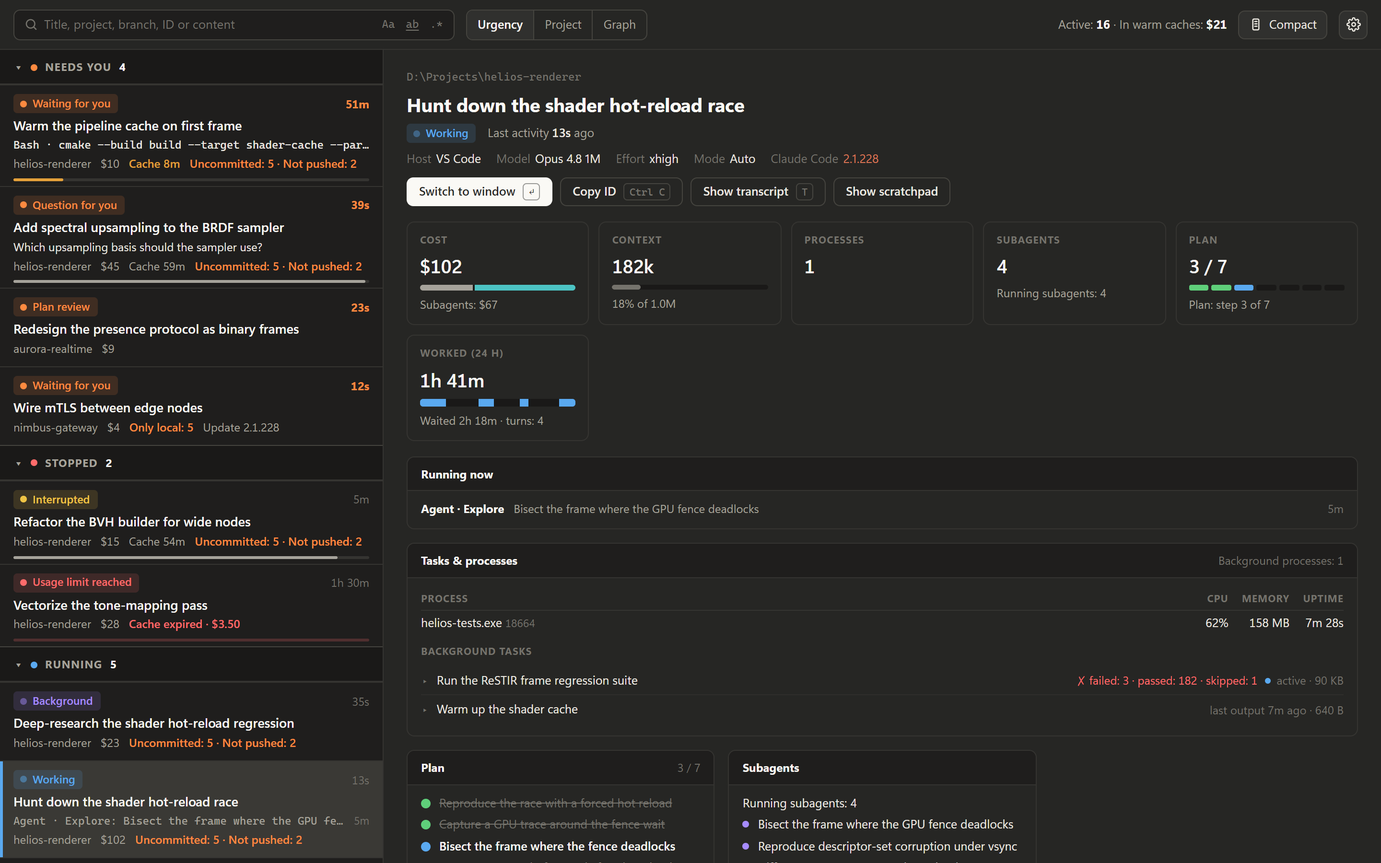
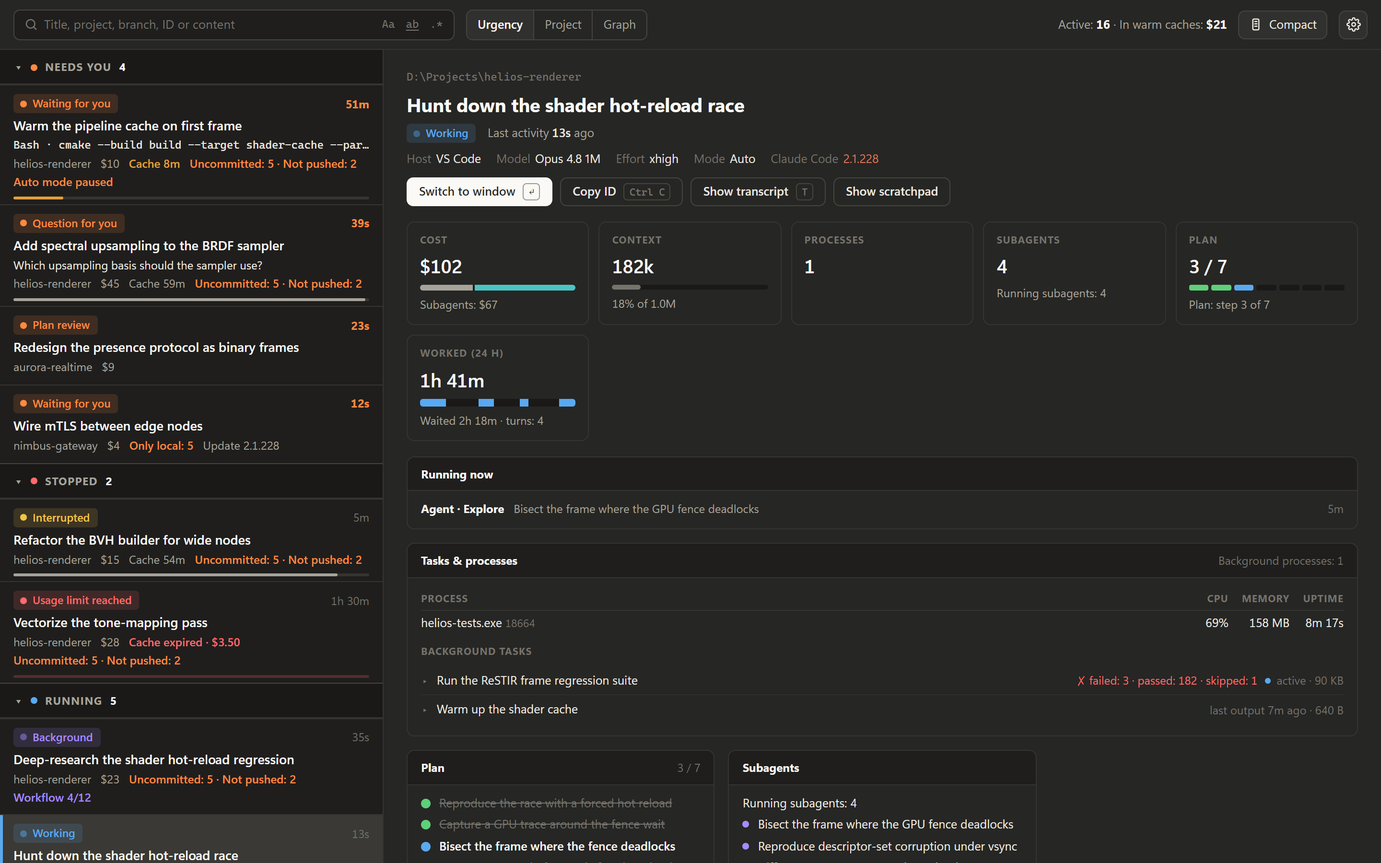
fix: wrap a list figure that does not fit onto the next line
Leaving a figure out for want of room hid facts on a narrow list. A
figure that does not fit now moves whole onto a second line, and the
project name is no longer capped. Screenshots regenerated.

Changed region(s): [[0.0, 0.1867, 0.2812, 1.0]]

diff --git a/agent_monitor_for_claude/ui/index.css b/agent_monitor_for_claude/ui/index.css
@@ -812,16 +812,14 @@ body.splitter-dragging {
         text-overflow: ellipsis;
     }
 
-    /* One line: a figure that does not fit wraps onto a second line that is
-       clipped away, so it goes whole instead of being cut mid-word. */
+    /* A figure that does not fit moves whole onto the next line, never cut
+       mid-word nor left out. */
     .item-meta {
         grid-area: meta;
         display: flex;
         flex-wrap: wrap;
         align-items: center;
-        gap: 0 10px;
-        height: 1.4em;
-        overflow: hidden;
+        gap: 2px 10px;
         min-width: 0;
         color: var(--fg-dim);
         font-size: 12px;
@@ -928,10 +926,8 @@ body.splitter-dragging {
 
 .meta-project {
     flex: 0 1 auto;
-    /* Squeezed by the figures beside it, but never to nothing, and never so
-       wide that it pushes them off the line. */
+    /* Squeezed only when it alone is wider than the line. */
     min-width: 4em;
-    max-width: 40%;
     white-space: nowrap;
     overflow: hidden;
     text-overflow: ellipsis;

diff --git a/.claude/CLAUDE.md b/.claude/CLAUDE.md
@@ -84,7 +84,7 @@ Prioritize functionality, performance and maintainability - whatever stands in t
 - **What a session runs, waits on and last said** (display fields, exempted by name in `tests/test_transcript_privacy.py`'s `_DISPLAY_TEXT_FIELDS`). The tail keeps the newest unanswered `tool_use` as `current_tool` (`transcript._tool_call`: a command, a path, an `AskUserQuestion`'s questions with their option labels, an `ExitPlanMode` plan, a subagent's type and description, else the first string input; `_TOOL_TEXT_MAX_CHARS` 400, a plan `_PLAN_TEXT_MAX_CHARS` 4000) with its timestamp, and the text blocks of the newest reply that has any as `last_reply` (`_REPLY_MAX_CHARS` 600). `logic.currentToolOf` drops the call for a dead process, a stopped turn and a reopen (the call belongs to the process that made it); `logic.activityOf` picks the list's one line - the call or question for `awaiting_permission`, the call with a ticking `.tick` duration for `working`/`processing`, else the reply's first line for a finished turn. A ticking element carries `data-age`/`data-age-at` and `tickAges` advances it like `.age`. The cuts are for the per-poll snapshot only: the details show both **whole** for the selected session - `detail.js` `requestSessionTexts` asks the `get_session_texts` bridge (`snapshot.session_texts` -> `transcript.full_texts`, the same tail parse with `_parse(full=True)`, which threads `_clip_unless` through `_tool_call`/`_questions`/`_reply_text`) whenever the cut text changes (`textsSignature`), and `wholeTexts` uses the answer only while it still belongs to that cut text. Never ship the whole texts on the snapshot: it goes out for every session on every poll.
 - **Worked and waiting time** (`transcript._note_user_entry`/`_note_assistant_entry`, full scan, main conversation only). A prompt (not a tool result, not `isMeta`) opens a turn, the reply with `end_turn`, an `isApiErrorMessage` reply, the interrupt marker or a local command's output (`_is_local_command_output` - otherwise the command's `<command-name>` invocation stayed an open turn until the next real reply) closes it (`_close_turn`); a prompt while one is open continues it. Closed intervals ship as `work_intervals` (`[seconds ago it started, seconds ago it ended]`, last day only), the open one as `turn_open_seconds`. `logic.workSummary` counts the open turn up to now while `working`/`processing` and up to the newest entry while `awaiting_permission`, never from before `process_age_seconds` (a turn an earlier process left open, continued by a prompt after a reopen, would otherwise count the whole gap; the *closed* interval such a turn leaves behind still spans it - the transcript does not say where one process ended), merges overlaps, and reports work, wait (the rest of the span; an ended session's span stops at its last turn) and the segments the timeline draws (`data-left`/`data-share`, sized by `applyShares`). The same scan logs `messages`: a `SendMessage` call's `to`/`recipient`, and a prompt whose `origin.kind` is `peer` with its `from`, `name` and `handback` - never the body. A background subagent's **task notification** (a prompt or queued attachment whose `origin.kind` is `task-notification`) is logged as that agent's hand-back (`_note_task_notification`): only `<task-id>` (an agent id, `a` + hex - a shell task's id is skipped) and `<status>` (`completed`/`stopped`/`killed`/`failed`, shipped as the message's `outcome`) from the text before `<summary>`, so the summary and the `<result>` after it stay unread even where they quote a tag (guarded in `tests/test_transcript_privacy.py`); measured, about as many agents report this way as through a `peer` hand-back.
 - **The connection graph** is the third grouping (`state.group === 'graph'`, `body.group-graph` widens the list pane). `subagents.count_subagents` lists **every** agent file of the session, newest first, with no cap (an analysis tool shows all of it; the counts keep their own `subagent_recent_seconds` window), and the snapshot ships every message the scan keeps (`_MAX_MESSAGES`, 500 per session; the worked intervals keep `_RECENT_WINDOW_SECONDS`). The graph narrows both itself (`logic.GRAPH_RANGES`, the history ranges including "all", default `24h`, `state.graphRange`, `amc-graph-range`, buttons in the chip slot): `agentsInWindow` keeps a running agent whatever its age and the ancestors of every kept agent, so a tree never loses its middle, `sessionInGraphWindow` keeps a session only with something in the window (its own age, a `working`/`processing` status, a background process, a kept agent, a message), and a switch is a re-render, never a read as an `AgentNode` (id from the file name, `agentType`/`description`/`parentAgentId` from `meta.json`, the workflow run from the folder, plus its own `usage_by_model` and main `skill` from the usage scan its cost already runs - `_usage_by_type` hands back each file's scan; a forked skill's `meta.json` carries no `description`, so `logic.graphModel` titles it `/<skill>`, and `logic.agentFacts` puts model, cost and age first under the title because the box clips that line). `logic.graphModel` builds nodes (session, workflow, agent, peer) and edges (`spawn`, `message`; a message's peer resolves to one of the session's agents, a listed session by name or id prefix, else a peer node); `logic.graphLayout` places each session's tree left to right, one row per leaf; `logic.graphMarkup` writes the SVG, every value through `esc`/`attr`, with SMIL `animateMotion` dots on active edges (a running agent, a message under `GRAPH_ACTIVE_SECONDS`). **One edge per relation**: the line style is the kind (solid spawn, dashed teal message, dotted tool), purple with dots means running now - the colour of a running node's dot, never the accent, which is the selection's - and an edge quiet past `GRAPH_RECENT_SECONDS` (1 h) gets `stale` and fades. A message to or from one of the session's own subagents never draws an edge of its own (it lay exactly on the spawn edge, hiding both): `noteAgentMessage` folds it into the spawn edge, and `agentReport` decides what came back - `returned` for a hand-back (newest wins), a message from the agent, or a `foreground`/`skill` launch (its call's result exists only once the agent is done), `aborted` for a `stopped`/`killed`/`failed` outcome, `none` otherwise, nothing while it runs. Messages between any other two nodes share **one** edge per pair (`received`, a Map of receiver -> count) with an arrowhead at each receiver, so one-way and two-way read apart. The marks (`graphEdgeHeads` -> `graphLayout` -> `graphMarkPath`) sit on each path's straight lead (`GRAPH_EDGE_LEAD`): a `tip` arrowhead into a box, or one head out from a subagent's box the `back` slot (`return` arrowhead toward the caller, `abort` cross) - never at the caller's end, where every edge of a session meets in one point. Dots run toward `flow` (the newest message's receiver), reversed with `keyPoints` when that is the path's start. Every edge with something to say gets an invisible wide `edge-hit` twin carrying its `data-tip` (`graphEdgeTip`), and an edge at the selected node gets `linked`. The legend (`graphLegendMarkup`, in `.legend-slot` below the graph slot, at the pane's foot, toggled by the chip row's `data-graph-legend` button, `state.graphLegend`/`amc-graph-legend`, on by default) is drawn with the same classes and `graphMarkPath`, so it cannot drift from the graph. Selection is the list's: `markSelectedItem` toggles `.gnode.selected`, a click selects, a double-click raises the window. A **subagent** node carries `data-key` (its session) and `data-agent`; a click is `selectAgent`, which keeps the session selected and sets `state.selectedAgent` (cleared by every `selectSession`), and the detail pane then renders the agent instead (`detail.js` `renderAgentDetail`, its own shell via `buildPane`): status, type, skill, model, effort, launch (`transcript.AgentLaunch`: `foreground`/`background` from the `Agent`/`Task` call's `run_in_background` and `isAsync`, `skill` for a `forked` result, keyed by the result's `toolUseResult.agentId` - the one main-transcript line with `"agentId"` that is not a sidechain line, which is the prefilter), the agent that started it, cost, runtime (`logic.agentRuntime`, from `started_seconds` - the agent file's first entry, kept by the usage scan as `UsageScan.started_at` beside `tool_calls` and the sidechain edit lines), tool calls, changed lines, its **result** and its whole **task**, read on selection through `get_agent_texts` (`subagents.agent_texts`: the first line of `agent-<id>.jsonl` as the task, and as the result `transcript.result_from_steps` over the cached steps below - no re-read of the tail, which for an agent whose newest entries are tool calls escalated to 16 MB on every write - the newest of a `SubagentHandback` call's `message` (how most background agents report: their last reply is that call, not text), a workflow agent's `StructuredOutput` input as JSON, or a reply's text blocks, read from the tail, which the tail parse skips as sidechain; the id checked against `_AGENT_ID_PATTERN`, the file found under any project folder's `<session>/subagents/` by `_agent_file` and confined to `projects/`). A running agent's texts are asked for again whenever its file was written (`detail.js` `requestAgentTexts`, keyed by its last write), a finished one's once. No agent text is ever on the snapshot. A session's own details carry the same **activity** block (`get_session_activity` -> `snapshot.session_activity` -> `transcript.session_steps`: the last `_SESSION_STEPS_TAIL_BYTES` of its transcript only, sidechain entries skipped, `partial` when older steps were left out; asked again when the transcript was written to, no sooner than `SESSION_STEPS_REFRESH_MS`), so a session's tool node filters it like a subagent's. Its **activity** block lists every step (`transcript.agent_steps`, incremental per file - `_steps_cache`, the newest `_STEPS_CACHE_MAX` files, only appended complete lines read, a shrunk file read afresh, copies handed out so a later result never changes an answer already given: each `tool_use` with its whole `input`, matched by id to its `tool_result` text and `is_error`, plus each reply's text; thinking unread), returned with the task and result by the same bridge call, rendered collapsed (`activityMarkup`, open rows kept per owner - a session's details or one subagent's - in `openRowsByOwner` through a capture-phase `toggle` listener on every `details[data-open-id]` below a `[data-owner]`, the hook failures included; a reply row's id is its time, not its position). **Tools** are graph nodes too: the full scan counts every `tool_use` by name (`_note_tool_uses`, names gated by `_TOOL_NAME_PATTERN`, `tool_uses` on the scan, `UsageScan.tools` for an agent file), the snapshot ships `tools: [{name, calls, age_seconds, failed}]` per session and per agent - like `agents` and `messages`, only when the page asks for the graph (`get_snapshot(graph)` -> `build_snapshot(graph=True)`, `snapshot._graph_fields`; empty lists otherwise, since every agent a session ran is most of the snapshot - measured 519 KB against 127 KB; `filters.js` `setGroup` fetches at once on entering the graph), and `logic.graphModel` hangs each caller's tools off that caller as `tool` nodes of its own (`<caller>/t:<tool>`, `mcp__<server>__*` folded into one `mcp:<server>` node, `calls` summed, the edge carrying them) - one shared node per tool drew every call into a single point, so who did what was lost. They are drawn only for what is in **focus** (`logic.toolsInFocus`: a selected subagent's own, a selected session's and all its subagents'; nothing otherwise) - every caller's tools at once bury the graph, and a thousand dashed curves at once also froze the window - so a selection re-renders the graph (`actions.js` `refreshGraphFocus`). Failures: a `tool_result` with `is_error` counts against its tool (`_note_tool_failures`: `tool_names_by_id` names the tool, `_DECLINED_RESULTS` keeps out a call you rejected, one a permission rule or the classifier denied, and one the session's end cut off - each an `is_error` result without the tool having failed, told apart by Claude Code's fixed opening wording; measured, the last was every one of the "failed" `AskUserQuestion` calls), shipped as each tool's `failed` and drawn as a red-framed tool node; a step carries `outcome` (`failed`/`rejected`/`interrupted`, the last from `toolUseResult.interrupted`) and `exit_code` (`Exit code N` opening the result). The activity list is `.activity-list`, not `.steps` - that class is the plan KPI's, whose rule turns every `span` under it into a 6px bar. A subagent's tool node selects the agent with `state.selectedTool`, and `state.scrollToActivity` scrolls the details to the activity once it has loaded, which narrows its activity block to that tool's calls (the header's `step-filter` lifts it); a session's selects the session. Labels are fitted on a canvas in the label's own font and cached per text (`render.js` `fitGraphText`) - measuring the SVG text forced a layout per call; `GRAPH_EDGE_TOOLS` (subagent calls, messages, hand-backs, structured output) stay out, being edges already. A session's subtree folds away (`state.graphCollapsed`, session ids, `amc-graph-collapsed`, capped at `GRAPH_COLLAPSED_MAX`; `graphModel`'s `collapsed` Set): the session node keeps `below` - its listed agents and processes - for the `graph_hidden` line and the `data-toggle` arrow `graphToggleMarkup` draws at its right edge (`GRAPH_TEXT_WIDTH` leaves room for it), its messages to other sessions stay, and the chip row's `data-graph-collapse` buttons fold or unfold all. The graph numbers a session's agents in start order over every listed agent (`logic.agentsByStart`, so a number survives a narrower window) and draws them top to bottom in that order; a node's tooltip only completes its cut title. A session with background processes (`child_count`) gets one `process` node. **Messages between sessions** go two ways: sent via `SendMessage` (`to`/`recipient` is a session's registry `name`, a former name, a title or `uds:<messagingSocketPath>`), received as a `user` prompt *or* - while a turn runs - as an `attachment` of type `queued_command` whose own `origin` (`kind: peer`, `from: uds:<socket>`, `name`) names the sender; `_note_queued_message` reads that `origin` and nothing else of the attachment. `snapshot._recent_messages` resolves a peer through `_peer_index` (per origin, live records first: registry name and `former_names` case-insensitively, `uds:` + `messaging_socket` exactly) to the session id, and drops an unresolved `uds:` address to the sender's name - the pipe path never reaches the UI.
-- **The list groups by urgency** (`logic.LIST_SECTIONS`): *Needs you* (`needs`), *Stopped* (`errored`, `interrupted`), *Running* (`working`, `background`), *Recent* (`idle`, `new`, `quiet`) and *Older* (`history`). A section owns filter buckets: opening or closing it switches all of them (`logic.toggledSectionKeys`), so the persisted `amc-filter` selection, the search scope and the widening offer keep working off the bucket keys - "chips" throughout this file are those buckets, and "a chip is off" means its section is closed. A section reads open while any of its buckets is on (a selection stored before the sections existed can hold only some). Each section sorts its own sessions (`logic.sortSectionSessions`): *Needs you* longest wait first (a blocked session writes nothing, so its age is the wait), *Running* by process start (`process_age_seconds`), since activity ages change every few seconds and a list that reorders under the pointer cannot be clicked, the rest newest first; a total tie-break (name, id, pid) keeps the order stable. The *Project* grouping (`state.group`, `amc-group`) shows the same filtered sessions per project (`logic.sortProjects`), most urgent first inside a project (`logic.sortGroupSessions`), with the sections as a row of toggles above them. A ticket grouping and a cost per ticket existed briefly and were removed: a branch-name pattern says nothing for teams without Jira-style keys. An entry names its status in words (the chip), its project, its cost and at most `LIST_SIGNAL_LIMIT` (2) signals in the rank of `logic.sessionSignals`, all on one line (`.item-meta` wraps onto a clipped second line, so a figure that does not fit goes whole rather than cut mid-word, and the project name stops at 40% so it cannot push the rest off); everything else is in the detail pane, which is built only from the selected session and keeps no data in tooltips - a tooltip there explains a term. The search filters on the session's own fields as the query is typed (`logic.sessionMetaMatch`: title, project, branch, and the session id from its start only, at least four characters) and adds the content scan's matches when they arrive; `logic.sessionMatchesSearch` therefore counts only an arrived result, and `setSearchQuery` drops the previous text's results and bumps `searchSeq` so a scan still reporting for it is ignored. The `history` bucket is the one off by default (`FILTER_DEFS` `offByDefault`); opening *Older* triggers the `get_history` fetch (`filters.js` `ensureHistoryLoaded`), and its open header carries the **time window** (`logic.HISTORY_RANGES`, default `24h`, `amc-history-range`). A re-fetch never blanks the cache: `state.historyStale` asks for one (`filters.js` `refreshHistory`, deferred past the current render), the cached rows stay until the new ones land, and `ensureHistoryLoaded` fetches again when the window was widened or a live session left while it ran; a departure while *Older* is closed only marks the cache stale for the next opening. Only *widening* re-fetches (`logic.historyRangeCovered`); narrowing is served from the cache by `logic.filterHistoryByAge`, which every reader of history goes through (`visibleHistory()`), on the ages frozen at fetch time. While *Older* is closed its count comes from the cache (`historyRows`), and before the first scan there is none
+- **The list groups by urgency** (`logic.LIST_SECTIONS`): *Needs you* (`needs`), *Stopped* (`errored`, `interrupted`), *Running* (`working`, `background`), *Recent* (`idle`, `new`, `quiet`) and *Older* (`history`). A section owns filter buckets: opening or closing it switches all of them (`logic.toggledSectionKeys`), so the persisted `amc-filter` selection, the search scope and the widening offer keep working off the bucket keys - "chips" throughout this file are those buckets, and "a chip is off" means its section is closed. A section reads open while any of its buckets is on (a selection stored before the sections existed can hold only some). Each section sorts its own sessions (`logic.sortSectionSessions`): *Needs you* longest wait first (a blocked session writes nothing, so its age is the wait), *Running* by process start (`process_age_seconds`), since activity ages change every few seconds and a list that reorders under the pointer cannot be clicked, the rest newest first; a total tie-break (name, id, pid) keeps the order stable. The *Project* grouping (`state.group`, `amc-group`) shows the same filtered sessions per project (`logic.sortProjects`), most urgent first inside a project (`logic.sortGroupSessions`), with the sections as a row of toggles above them. A ticket grouping and a cost per ticket existed briefly and were removed: a branch-name pattern says nothing for teams without Jira-style keys. An entry names its status in words (the chip), its project, its cost and at most `LIST_SIGNAL_LIMIT` (2) signals in the rank of `logic.sessionSignals`, and a figure that does not fit wraps whole onto the next line (`.item-meta` `flex-wrap`) - never cut mid-word, and never left out, since an entry that silently drops a fact for want of room misinforms; everything else is in the detail pane, which is built only from the selected session and keeps no data in tooltips - a tooltip there explains a term. The search filters on the session's own fields as the query is typed (`logic.sessionMetaMatch`: title, project, branch, and the session id from its start only, at least four characters) and adds the content scan's matches when they arrive; `logic.sessionMatchesSearch` therefore counts only an arrived result, and `setSearchQuery` drops the previous text's results and bumps `searchSeq` so a scan still reporting for it is ignored. The `history` bucket is the one off by default (`FILTER_DEFS` `offByDefault`); opening *Older* triggers the `get_history` fetch (`filters.js` `ensureHistoryLoaded`), and its open header carries the **time window** (`logic.HISTORY_RANGES`, default `24h`, `amc-history-range`). A re-fetch never blanks the cache: `state.historyStale` asks for one (`filters.js` `refreshHistory`, deferred past the current render), the cached rows stay until the new ones land, and `ensureHistoryLoaded` fetches again when the window was widened or a live session left while it ran; a departure while *Older* is closed only marks the cache stale for the next opening. Only *widening* re-fetches (`logic.historyRangeCovered`); narrowing is served from the cache by `logic.filterHistoryByAge`, which every reader of history goes through (`visibleHistory()`), on the ages frozen at fetch time. While *Older* is closed its count comes from the cache (`historyRows`), and before the first scan there is none
 - **Project order** (`logic.sortProjects`, used by the *Project* grouping): attention band (`projectBand` - the project's most urgent session) first, then **newest activity** (`projectActivityAge` - the freshest session's `age_seconds`), then the name as a tie-break. Ordering within a band by name looks like the stable choice but is not: a group that finishes its work leaves the busy band and jumps to wherever the alphabet puts it. By age it slides one position down instead - every group's age grows at the same rate, so the order shifts only when a group genuinely gains activity or crosses a band boundary. A non-finite age must never reach the comparator, which would return `NaN` and leave the order undefined - `projectActivityAge` maps it to `Infinity`. The sections order their sessions themselves (`logic.sortSectionSessions`, see the list bullet above); there is no sort menu
 - Age is computed in Python (`transcript._activity_age`) from the newest transcript entry's `timestamp`, parsed to POSIX seconds in `_timestamp_epoch`: Claude Code records timestamps in UTC, so the trailing `Z` is normalized to an explicit offset (a value with no offset is read as UTC) and the result compares directly to `time.time()`. It falls back to the file mtime **only** when no entry carries a parseable timestamp. Deriving from the entry timestamp rather than the mtime is deliberate: an idle process (e.g. the VS Code extension host) that rewrites session metadata in place bumps the file mtime without appending a turn, and that must not reset the "last activity" age. `build_snapshot` ships the numeric age; the UI formats and ticks it
 - **Only a conversational turn's timestamp counts** (`_TURN_ENTRY_TYPES`: `assistant`, `user`, `system` - exactly the types `_parse` derives `last_entry_kind` from, so age and status read the same entries). Claude Code also *appends* bookkeeping entries - `queue-operation`, `file-history-snapshot`/`-delta`, `ai-title` - and letting one of those set the timestamp is the same mistake the mtime rule above avoids, merely arriving as an appended line instead of an in-place rewrite: a `file-history-delta` lands whenever any tool writes a file (a subagent writing to the scratchpad included), which would report the conversation as having moved when it did not. An unknown type is treated as bookkeeping - the quieter reading, since a new conversational type would leave the age standing rather than refresh it on something that never happened. Consequence for the status: a transcript holding *only* bookkeeping reports `has_activity: false`, so `classify` returns `unknown` ("Quiet") rather than `awaiting_input` - an untouched session no longer claims a reply is owed on the strength of a queue record

diff --git a/CHANGELOG.md b/CHANGELOG.md
@@ -16,7 +16,7 @@ and this project adheres to [Semantic Versioning](https://semver.org/spec/v2.0.0
 - An expired prompt cache is marked in the session details whatever writing it again costs, and the amounts are shown in cents, since small ones add up across sessions.
 
 ### Fixed
-- A list entry no longer cuts a figure off mid-word when its line is full. What does not fit is left out whole and stays in the details.
+- A list entry no longer cuts a figure off mid-word when its line is full. What does not fit moves to a second line.
 - Reading git information no longer runs an fsmonitor program configured in a repository, and git's ownership check is skipped only for repositories inside WSL, so a repository another user prepared can no longer run a program as you.
 - An expanded background-task console no longer makes the app sluggish in a long session: the task labels are read from the transcript's new lines only, not from the whole file every second.
 - A session that switched into a git worktree no longer freezes the list while its long transcript is read, and one whose worktree cannot be matched is no longer re-read in full every ten seconds.
